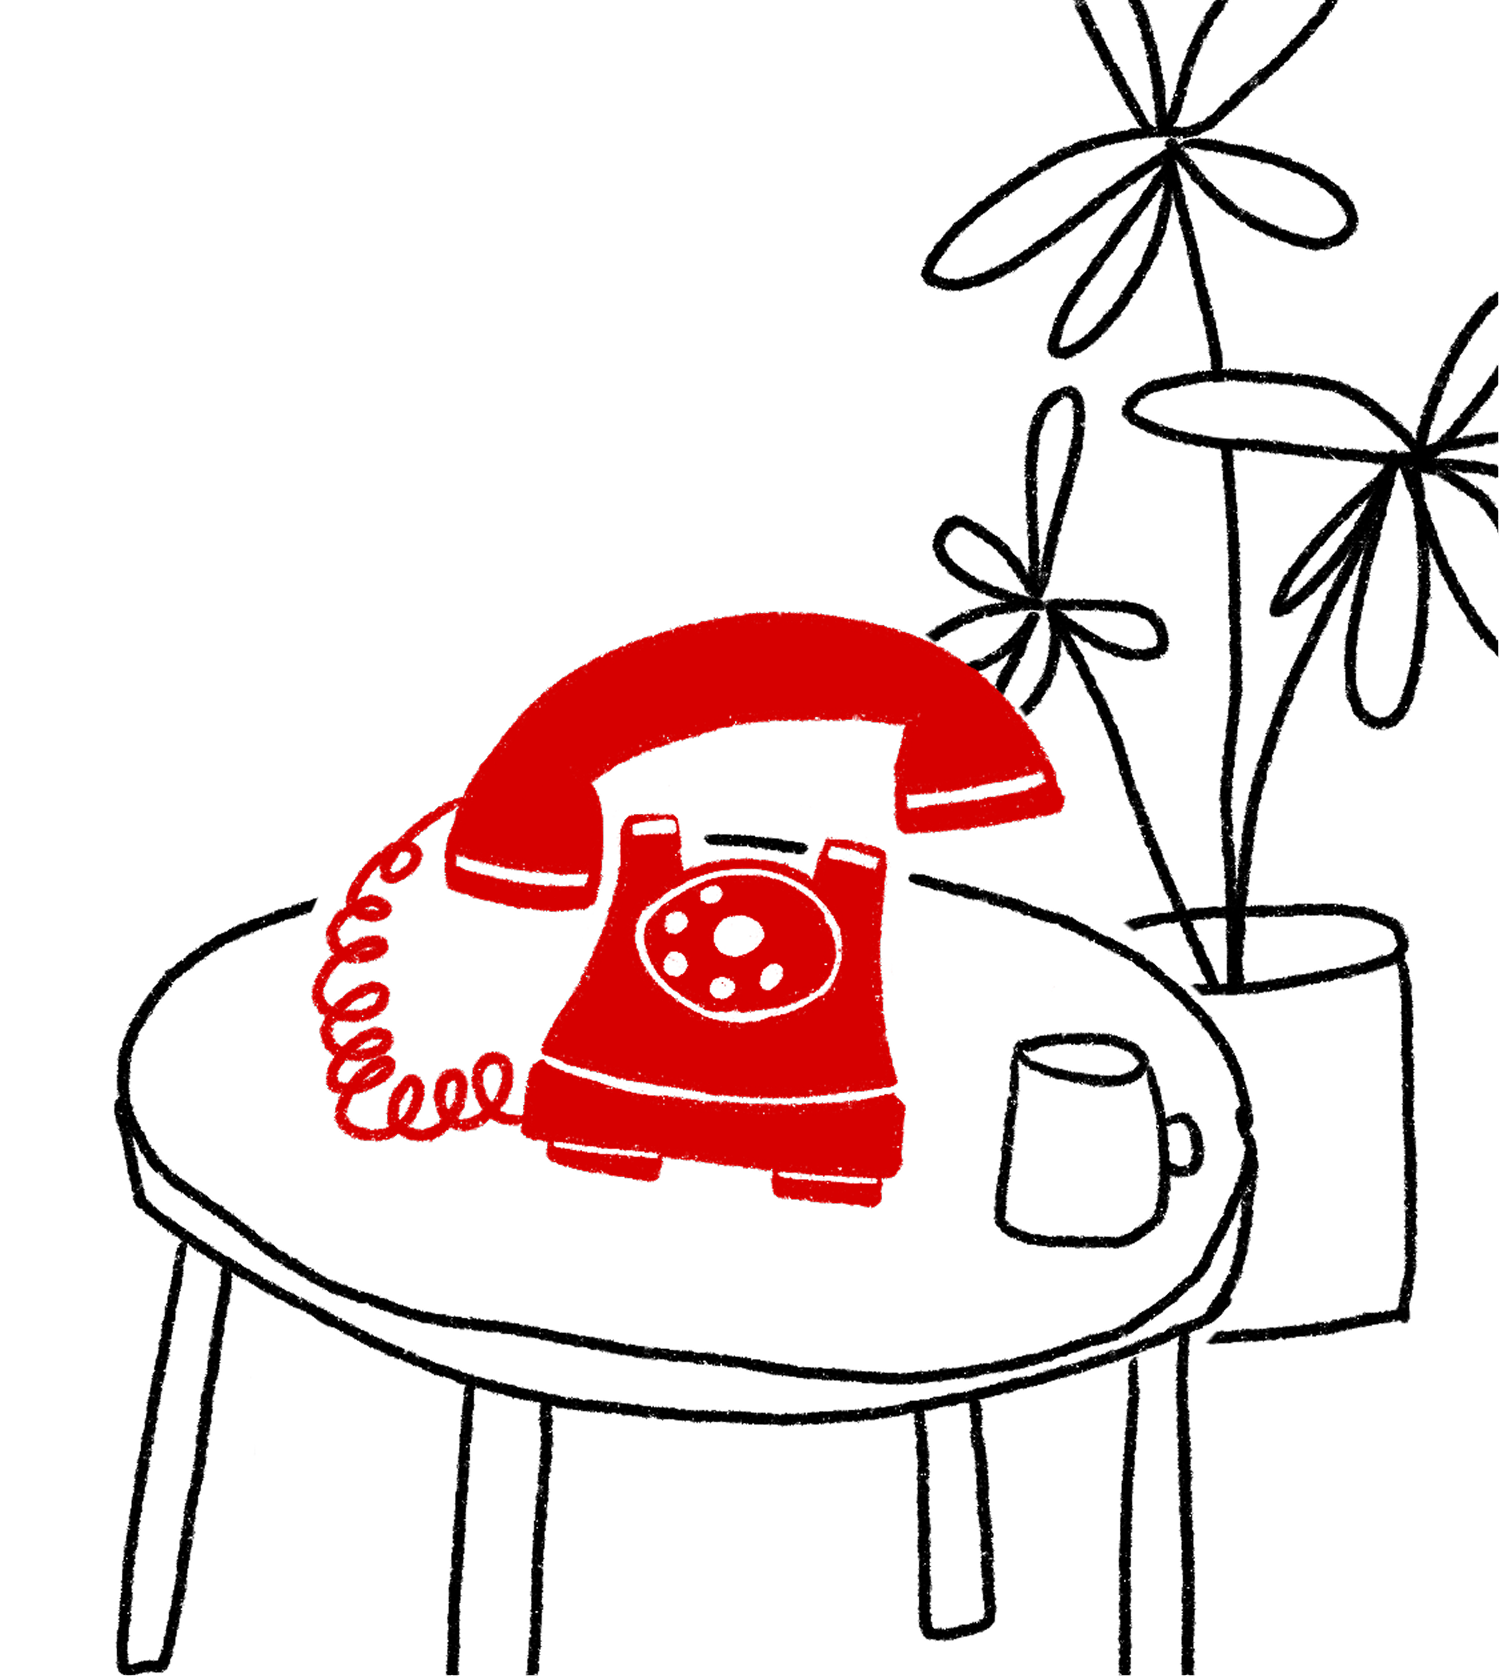
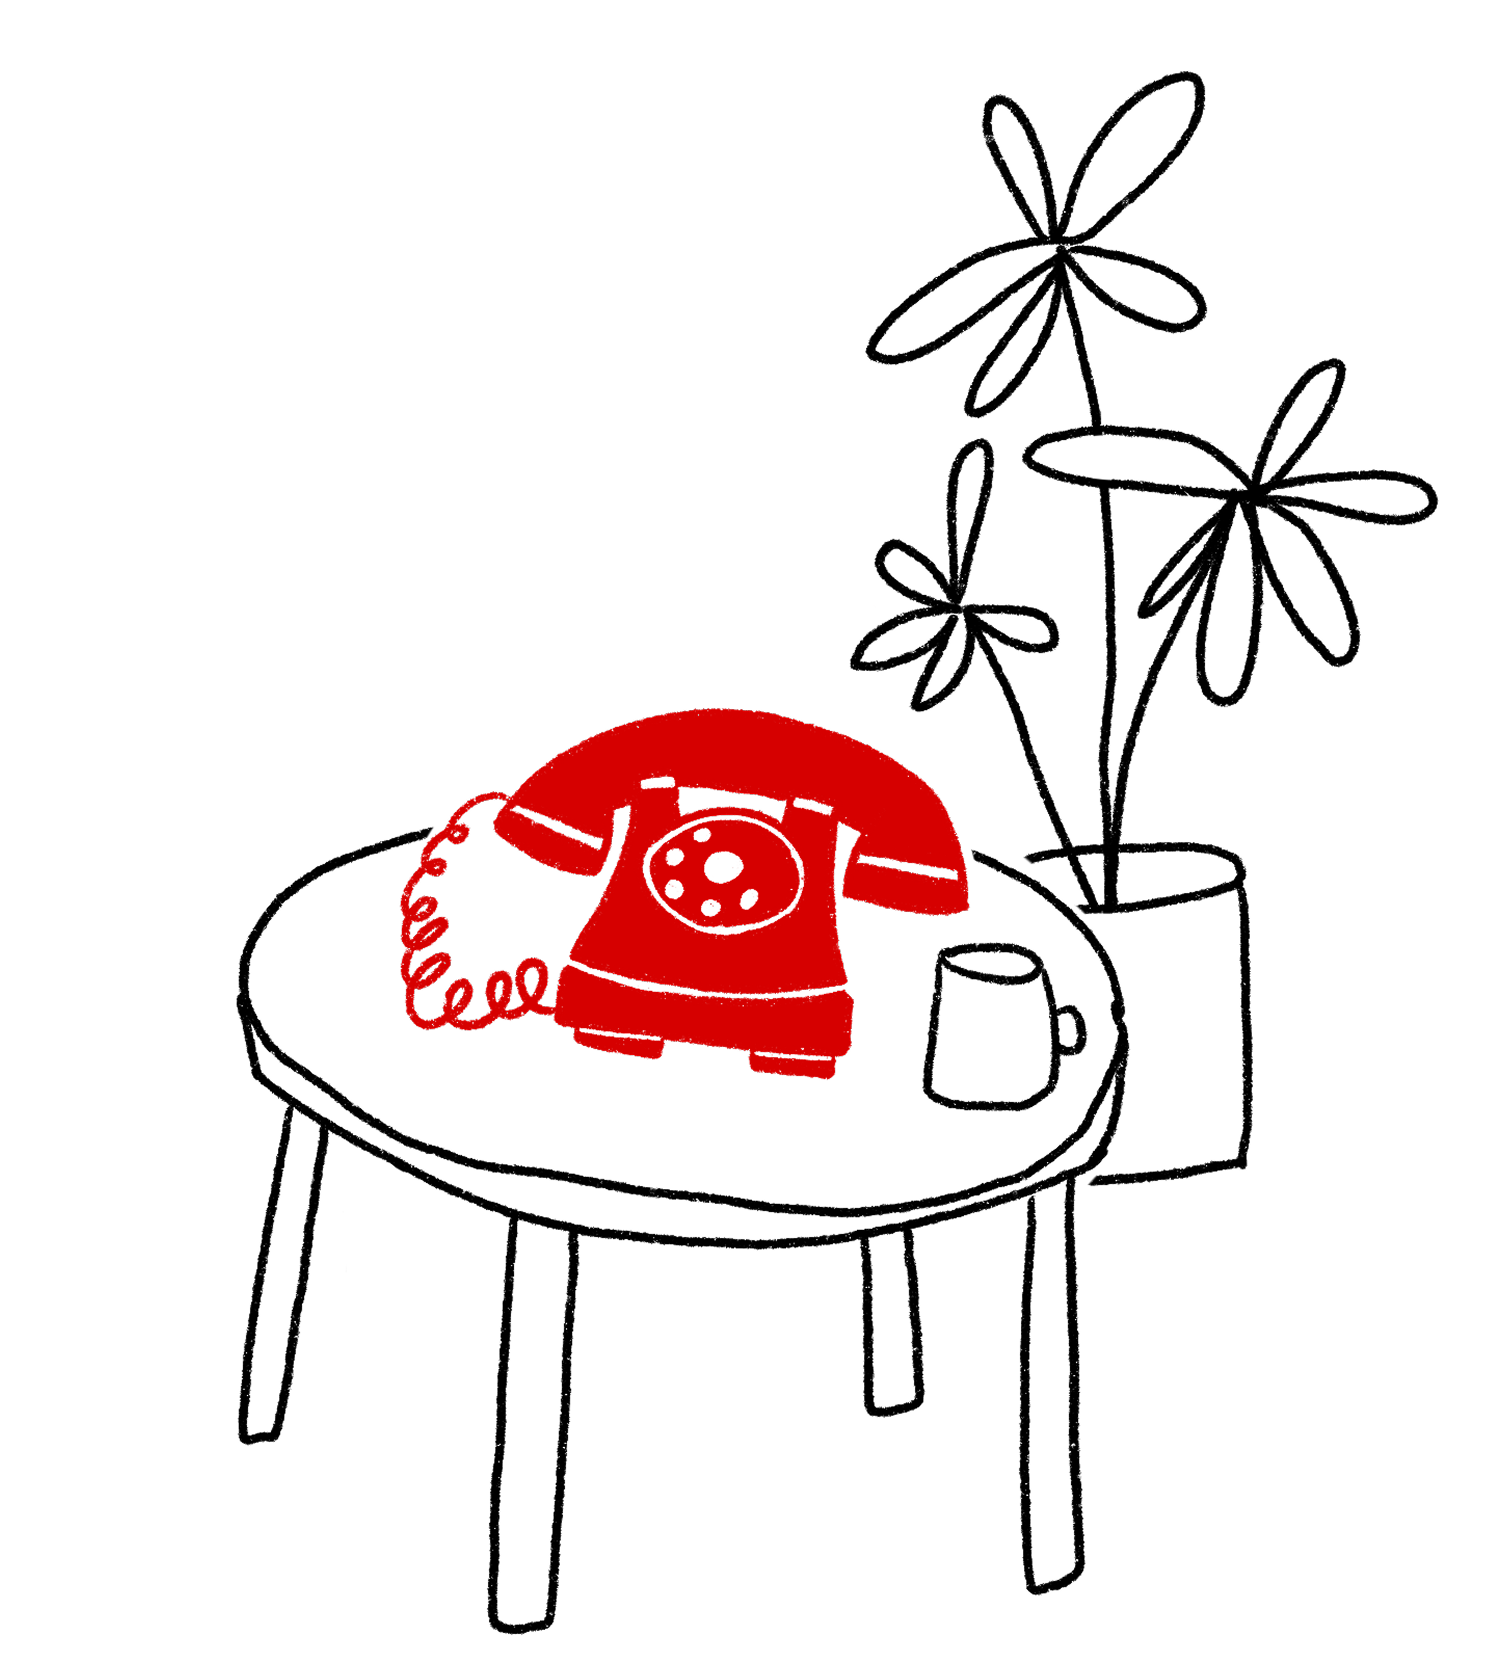
Replace desktop illustration with full-height artwork (no more cut-off table legs)
Recomputed hit-area from the new asset's red-phone position.

Changed region(s): [[0.0614, 0.0, 1.0, 1.0], [0.982, 0.3723, 1.0, 0.4033], [0.8592, 0.0, 0.8899, 0.031]]

diff --git a/index.html b/index.html
@@ -66,10 +66,10 @@
       width: auto;
     }
     .hit-area {
-      left: calc(100vw - 72.6693vh);
-      top: 34.52vh;
-      width: 48.5028vh;
-      height: 39.5vh;
+      left: calc(100vw - 67.9022vh);
+      top: 34.69vh;
+      width: 38.5483vh;
+      height: 31.69vh;
     }
   }
 
